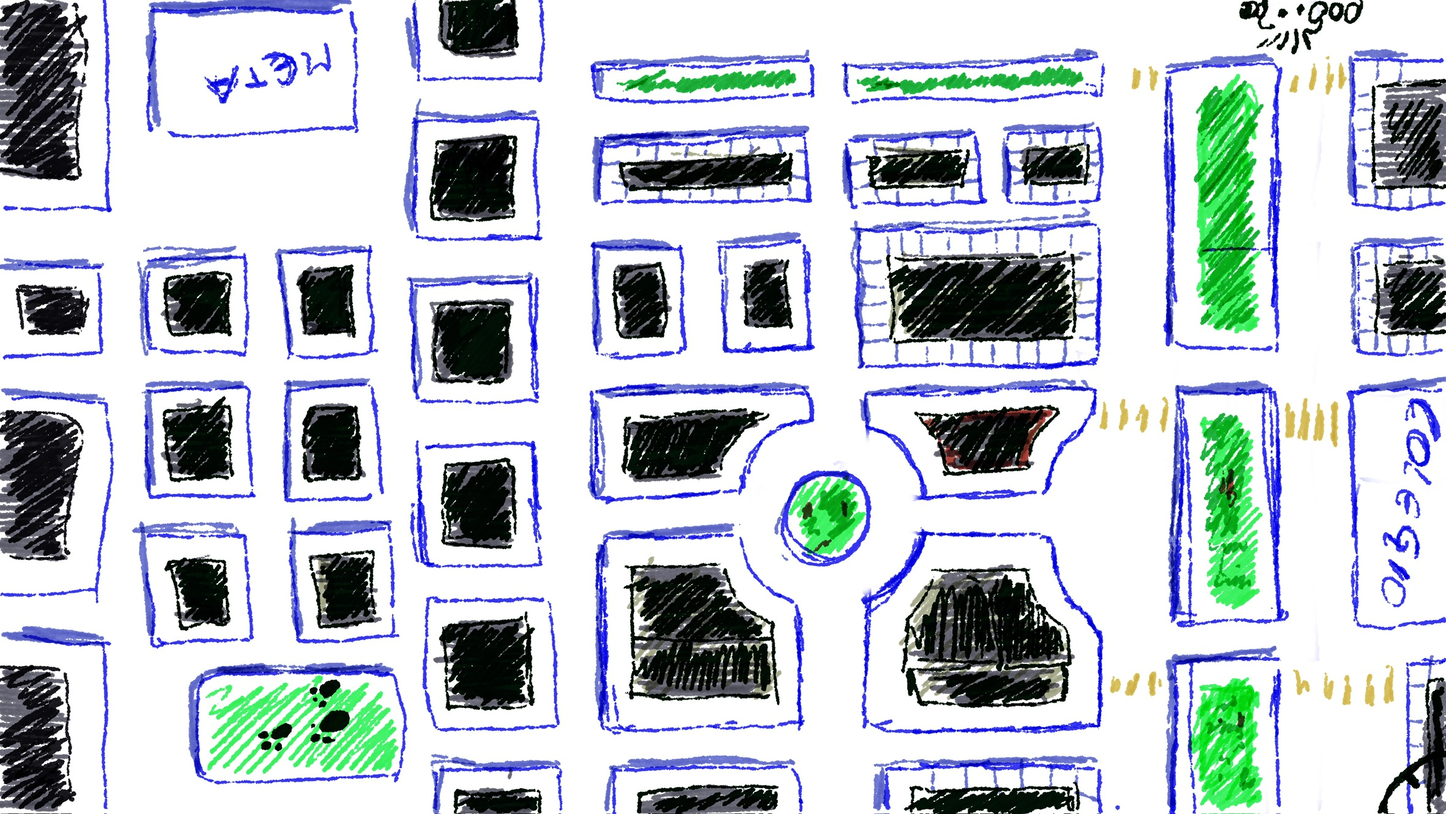
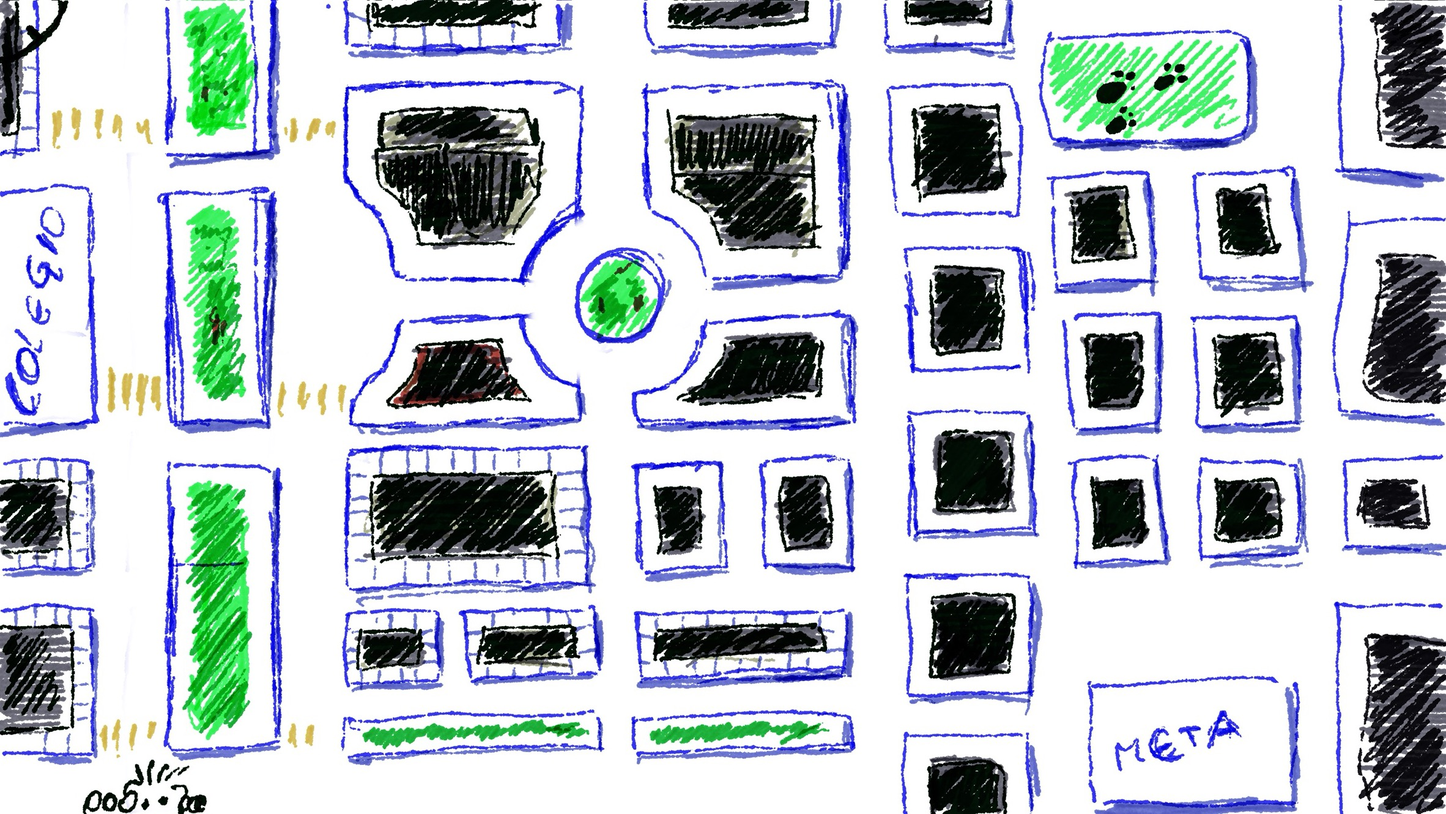
fix: quitar overlays procedurales con bg custom, rotar level1

diff --git a/src/systems/MapManager.js b/src/systems/MapManager.js
@@ -345,37 +345,40 @@ export default class MapManager {
       bg.setDepth(-10)
     }
 
-    // --- ground layer (streets — slightly darker strips) ---
-    const ground = scene.add.graphics()
-    ground.fillStyle(0xede4d0, 1)
-    // Horizontal streets
-    for (let y = 0; y < MAP_HEIGHT; y += 480) {
-      ground.fillRect(0, y, MAP_WIDTH, 192)
-    }
-    // Vertical streets
-    for (let x = 0; x < MAP_WIDTH; x += 480) {
-      ground.fillRect(x, 0, 192, MAP_HEIGHT)
-    }
-    ground.setDepth(-9)
+    const hasCustomBg = scene.textures && scene.textures.exists(bgKey)
 
-    // --- obstacles layer (static physics bodies) ---
+    // --- ground layer (only if no custom background) ---
+    if (!hasCustomBg) {
+      const ground = scene.add.graphics()
+      ground.fillStyle(0xede4d0, 1)
+      for (let y = 0; y < MAP_HEIGHT; y += 480) {
+        ground.fillRect(0, y, MAP_WIDTH, 192)
+      }
+      for (let x = 0; x < MAP_WIDTH; x += 480) {
+        ground.fillRect(x, 0, 192, MAP_HEIGHT)
+      }
+      ground.setDepth(-9)
+    }
+
+    // --- obstacles layer (invisible physics bodies when custom bg, visible otherwise) ---
     if (scene.physics && scene.physics.add) {
       this._obstacleGroup = scene.physics.add.staticGroup()
 
       const obstacles = OBSTACLE_LAYOUTS[key] || []
       for (const obs of obstacles) {
-        const rect = scene.add.rectangle(
-          obs.x + obs.width / 2,
-          obs.y + obs.height / 2,
-          obs.width,
-          obs.height,
-          0xb0c4de,
-          0.6
-        )
-        rect.setDepth(-8)
-        this._obstacleGroup.add(rect)
-        rect.body.setSize(obs.width, obs.height)
-        rect.body.setOffset(-obs.width / 2, -obs.height / 2)
+        if (hasCustomBg) {
+          // Invisible collision body only
+          const zone = scene.add.zone(obs.x + obs.width / 2, obs.y + obs.height / 2, obs.width, obs.height)
+          scene.physics.add.existing(zone, true)
+          this._obstacleGroup.add(zone)
+        } else {
+          // Visible rectangle + collision
+          const rect = scene.add.rectangle(obs.x + obs.width / 2, obs.y + obs.height / 2, obs.width, obs.height, 0xb0c4de, 0.6)
+          rect.setDepth(-8)
+          this._obstacleGroup.add(rect)
+          rect.body.setSize(obs.width, obs.height)
+          rect.body.setOffset(-obs.width / 2, -obs.height / 2)
+        }
       }
     }
 
